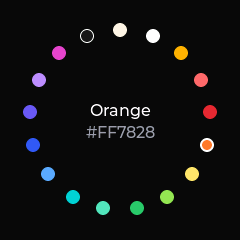
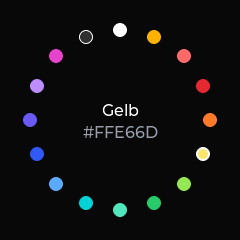
Farbwaehler: Warmweiß entfernt, nur reines Weiß
Die Palette hat jetzt 15 Farben. Im Harness zeigte MUSIC_IDX auf die
Anzahl der Kalibrierziele statt der Palette und haette ausserhalb des
Punkte-Arrays gelegen. Dokumentation und Screenshots angepasst.

Claude-Session: https://claude.ai/code/session_01XLaKkGhMqU82qXdsv9t5qw

diff --git a/include/Config.example.h b/include/Config.example.h
@@ -43,7 +43,7 @@
 // Unabhaengig von der Kalibrierung. Standard: 17 Farben der Web-UI (Weiss bis Cyan, siehe Palette.h).
 // Farbset des Farbwaehlers (LCD und Web-UI). Eintraege: LEVI_PICKER_ENTRY("Name", R, G, B),
 // 1 bis 24 Stueck, Name hoechstens 15 Zeichen. Unabhaengig von der Kalibrierung.
-// Standard: 16 benannte Farben (siehe Palette.h).
+// Standard: 15 benannte Farben (siehe Palette.h).
 // #define LEVI_PICKER_LIST \
 //   LEVI_PICKER_ENTRY("Warmweiß", 255, 243, 224), \
 //   LEVI_PICKER_ENTRY("Rot", 255, 64, 64), \

diff --git a/tools/screenshots/harness.cpp b/tools/screenshots/harness.cpp
@@ -28,7 +28,7 @@ struct State { bool ble=false; bool music=false; bool raw=false; int8_t power=-1
 static State gState;
 static State snapshot(){return gState;}
 static int8_t selected=-1;
-static constexpr int MUSIC_IDX=LeviCal::N;
+static constexpr int MUSIC_IDX=LeviPalette::N;
 static constexpr int LIST_COUNT=LeviCal::N+1;
 static void setPower(bool){}
 static void setBrightness(int){}

diff --git a/include/Palette.h b/include/Palette.h
@@ -10,7 +10,6 @@
 
 #ifndef LEVI_PICKER_LIST
 #define LEVI_PICKER_LIST \
-  LEVI_PICKER_ENTRY("Warmweiß", 255, 244, 229), \
   LEVI_PICKER_ENTRY("Weiß", 255, 255, 255), \
   LEVI_PICKER_ENTRY("Bernstein", 255, 176, 0), \
   LEVI_PICKER_ENTRY("Koralle", 255, 107, 107), \

diff --git a/AGENTS.md b/AGENTS.md
@@ -11,7 +11,7 @@ LeviLuma steuert einen LED-Strip der ELK-/Lotus-Lantern-Familie über BLE (Servi
 - **LCD-UI** auf dem Display des Boards (LVGL, Touch).
 - **Web-UI** im WLAN, erreichbar unter `leviluma.local` (mDNS) oder über die IP.
 
-Gesteuert werden: Ein/Aus, Helligkeit (1–100 %), Farbe (Farbset aus `LEVI_PICKER_LIST` mit Namen, Standard 16 Farben, und freie RGB-Werte), Musikmodus (Mikrofon) und eine Kalibrierung der Farben über die Web-UI.
+Gesteuert werden: Ein/Aus, Helligkeit (1–100 %), Farbe (Farbset aus `LEVI_PICKER_LIST` mit Namen, Standard 15 Farben, und freie RGB-Werte), Musikmodus (Mikrofon) und eine Kalibrierung der Farben über die Web-UI.
 
 ## Hardware
 
